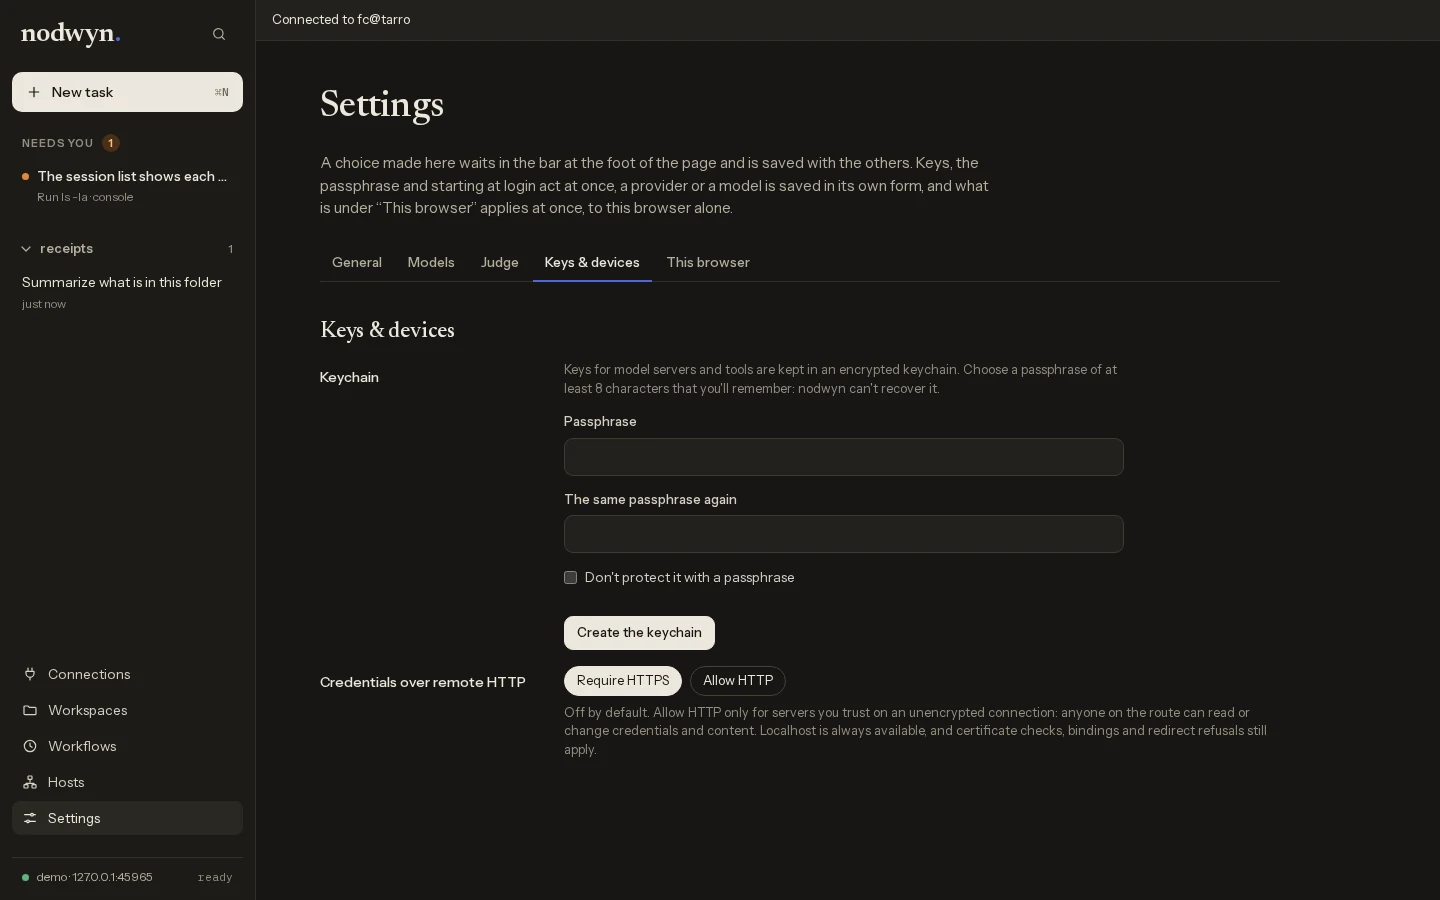
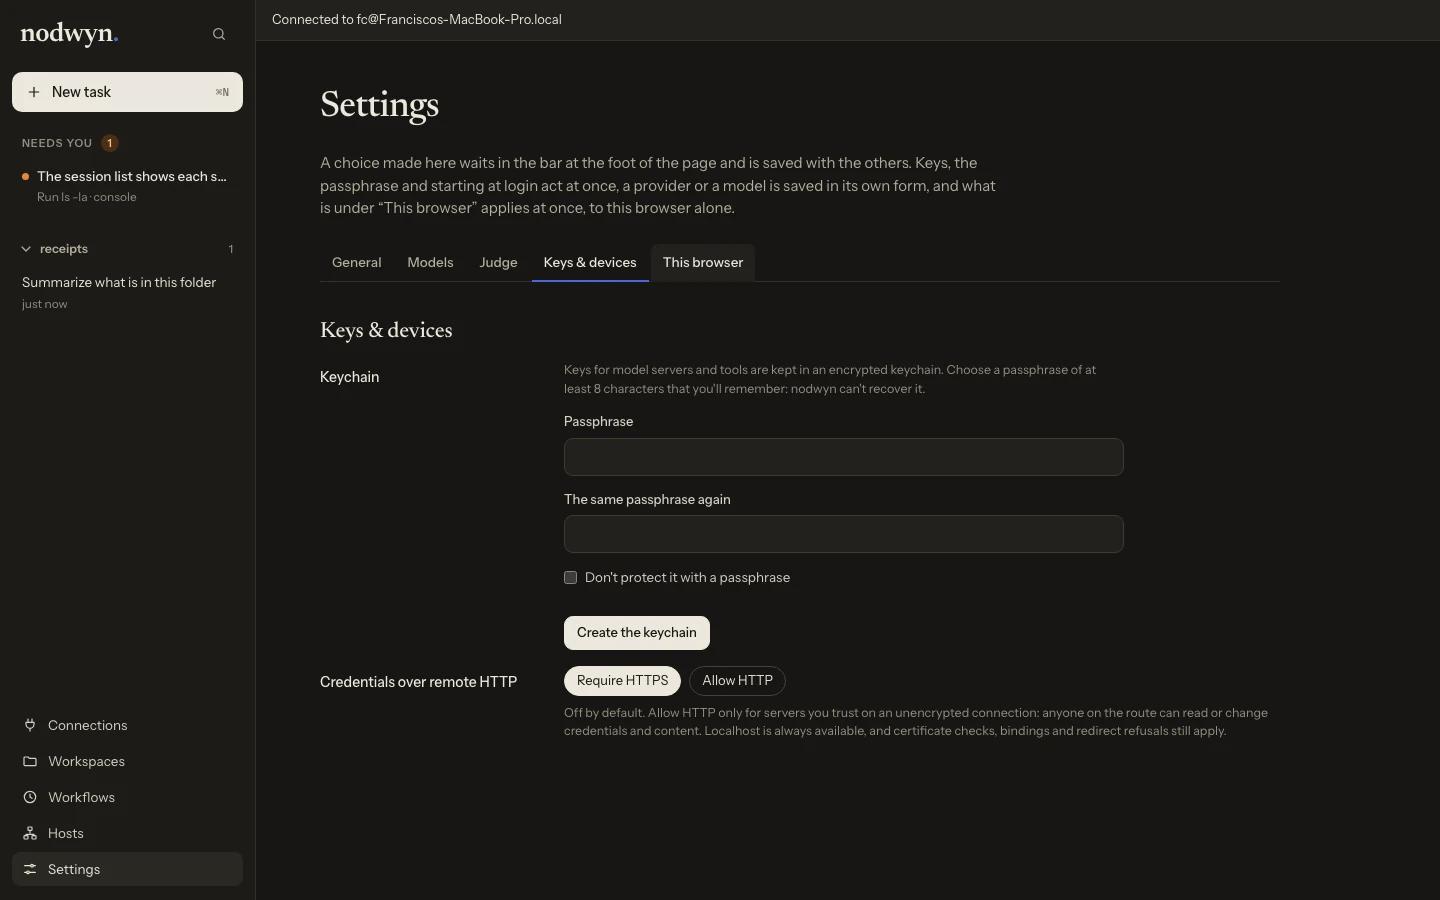
The console's sidebar no longer names the default model
The last line of the sidebar showed this computer's default model and
whether it was ready. With several hosts linked it read as the model of
every task, though a task on another host runs that host's model, so it
confused more than it told. The offline banner already says when the
daemon is gone, which was the line's other use.

The screens check now fails if the sidebar says "ready" (it found it
before this change), the tasks check no longer expects the line in view,
the guide drops its sentence, and docs/images are retaken. make validate
passes with no warnings; the WebKit run was not made, as Playwright's
WebKit is not installed.

diff --git a/internal/frontend/web/assets/sidebar.js b/internal/frontend/web/assets/sidebar.js
@@ -5,7 +5,6 @@
 // folders are under its name and state.
 import { h, icon, ago, minutes } from "./dom.js";
 import { summary } from "./prompts.js";
-import { stateWords } from "./modelpicker.js";
 import { searchURL } from "./search.js";
 import { chosenFolder } from "./home.js";
 import { hostState } from "./hosts.js";
@@ -211,12 +210,12 @@ export function renderSidebar(nav, { desk, hosts, route, conn, rerender }) {
   // sidebar would take the focus for its own field.
   const was = searching && document.activeElement?.matches?.("#sidebar input[type=search]") ? document.activeElement : null;
   const typing = was && { start: was.selectionStart, end: was.selectionEnd };
-  const control = desk.control();
-  const modelState = !conn.live ? ["bad", "offline"] : !control ? ["", "checking"] : control.state === "ready" ? ["ok", desk.running().length ? "working" : "ready"] : [control.state === "unreachable" ? "bad" : "warn", stateWords[control.state] || control.state];
   const link = (href, name, label) => h("a", { class: "nav-link", href, "aria-current": route.name === href.slice(2) ? "page" : null }, icon(name), h("span", {}, label));
 
-  // Only the task list scrolls: the places and the model's state stay where
-  // they are, and the list keeps its place through each redraw.
+  // Only the task list scrolls: the places stay where they are, and the
+  // list keeps its place through each redraw. The sidebar names no model:
+  // with several hosts the default model of this one says nothing about a
+  // task on another, and the offline banner says when the daemon is gone.
   const kept = nav.querySelector(".nav-tasks")?.scrollTop || 0;
   const tasks = h(
     "div",
@@ -240,13 +239,6 @@ export function renderSidebar(nav, { desk, hosts, route, conn, rerender }) {
     h("a", { class: "new-task", href: "#/", onclick: () => setTimeout(() => document.getElementById("task")?.focus(), 0) }, icon("plus"), h("span", {}, "New task"), h("kbd", {}, "⌘N")),
     tasks,
     h("div", { class: "nav-links" }, link("#/connections", "plug", "Connections"), link("#/workspaces", "folder", "Workspaces"), link("#/workflows", "clock", "Workflows"), conn.has("host.list") ? link("#/hosts", "hosts", "Hosts") : null, link("#/settings", "sliders", "Settings")),
-    h(
-      "div",
-      { class: "model-line", title: control?.detail || "" },
-      h("span", { class: `dot ${modelState[0]}` }),
-      h("span", {}, control?.model ? `${control.model}${control.host ? ` · ${control.host}` : ""}` : conn.live ? "Model" : "Disconnected"),
-      h("span", { class: "state" }, modelState[1]),
-    ),
     ].filter(Boolean),
   );
   tasks.scrollTop = kept;

diff --git a/test/browser/checks/tasks.js b/test/browser/checks/tasks.js
@@ -301,18 +301,20 @@ check(async () => {
   assert.deepStrictEqual(limitsSent().at(-1), { id: limited, limits: {} }, "removing the last limit sent none");
   step("a task's limits added, changed and removed on its panel, none from Home");
 
-  // Only the task list scrolls: Settings and the model's state stay in view
-  // beside a list longer than the window, and a redraw keeps the list's place.
+  // Only the task list scrolls: Settings stays in view beside a list longer
+  // than the window, and a redraw keeps the list's place. The sidebar names
+  // no model, which said nothing about a task on another host.
   await page.setViewportSize({ width: 1440, height: 520 });
   const frame = () =>
     page.evaluate(() => {
       const list = document.querySelector(".nav-tasks"), side = document.querySelector("#sidebar");
       const bottom = (sel) => document.querySelector(sel).getBoundingClientRect().bottom;
-      return { scrolls: list.scrollHeight > list.clientHeight, sideOverflow: side.scrollHeight - side.clientHeight, links: bottom(".nav-links"), model: bottom(".model-line"), height: innerHeight, top: list.scrollTop };
+      return { scrolls: list.scrollHeight > list.clientHeight, sideOverflow: side.scrollHeight - side.clientHeight, links: bottom(".nav-links"), model: !!document.querySelector(".model-line"), height: innerHeight, top: list.scrollTop };
     });
   const long = await frame();
   assert.ok(long.scrolls, `the task list does not scroll: ${JSON.stringify(long)}`);
-  assert.ok(long.sideOverflow <= 0 && long.links <= long.height && long.model <= long.height, `the places or the model's state scrolled away: ${JSON.stringify(long)}`);
+  assert.ok(long.sideOverflow <= 0 && long.links <= long.height, `the places scrolled away: ${JSON.stringify(long)}`);
+  assert.ok(!long.model, "the sidebar still names a model");
   await page.evaluate(() => (document.querySelector(".nav-tasks").scrollTop = 60));
   await page.evaluate(() => dispatchEvent(new HashChangeEvent("hashchange")));
   assert.strictEqual((await frame()).top, 60, "a redraw moved the task list");

diff --git a/test/browser/checks/screens.js b/test/browser/checks/screens.js
@@ -39,10 +39,12 @@ check(async () => {
   const go = (page, hash) => page.evaluate((h) => (location.hash = h), hash);
 
   // Home: the task waiting for an answer and the finished one, under its
-  // folder, in the sidebar and on the page, with the model answering.
+  // folder, in the sidebar and on the page. The sidebar names no model: with
+  // several hosts this one's default said nothing about a task on another.
   const home = async (page) => {
     assert.ok(!(await page.innerText("#daemon-identity")).includes("Runs on"), "Home claims an execution target before a task opens");
-    await shows(page, "#sidebar", "NEEDS YOU", "Run ls -la · console", "receipts", "Summarize what is in this folder", "ready");
+    await shows(page, "#sidebar", "NEEDS YOU", "Run ls -la · console", "receipts", "Summarize what is in this folder");
+    assert.ok(!/\bready\b/.test(await page.innerText("#sidebar")), "the sidebar still names the model and its state");
     await shows(page, "#view", "What should we get done?", "Run ls -la", "Allow once", "RECENTLY FINISHED", "Summarize what is in this folder");
     const picker = await page.$eval("#new-task-model .mp-controls", (el) => {
       const box = el.getBoundingClientRect();

diff --git a/internal/frontend/web/assets/style.css b/internal/frontend/web/assets/style.css
@@ -289,12 +289,6 @@ textarea.input { height: auto; padding: 10px 12px; line-height: 1.5; resize: ver
   text-decoration: none; color: var(--ink-2); font-size: 13.5px;
 }
 .nav-link:hover, .nav-link[aria-current="page"] { background: var(--selected); color: var(--ink); }
-.model-line {
-  display: flex; align-items: center; gap: 8px; padding: 10px 10px 0; border-top: 1px solid var(--line);
-  font-size: 12px; color: var(--muted); min-width: 0;
-}
-.model-line span:nth-child(2) { overflow: hidden; text-overflow: ellipsis; white-space: nowrap; }
-.model-line .state { margin-left: auto; font-family: var(--mono); font-size: 11px; color: var(--faint); }
 .content { flex-grow: 1; min-width: 0; display: flex; flex-direction: column; min-height: 0; overflow: hidden; }
 .view { flex-grow: 1; min-height: 0; display: flex; flex-direction: column; }
 .topbar { display: none; }

diff --git a/site/content/console.md b/site/content/console.md
@@ -4,7 +4,7 @@ The console is a web app that a daemon serves. `nodwyn app` shows it in a window
 
 ## The sidebar
 
-The sidebar is the same on every page. **New task** is at the top (⌘N on a Mac), and the magnifier next to it searches what your earlier tasks did. Under that, **Needs you** lists the tasks that have stopped to ask something, and below it your folders, each with its tasks. At the bottom are the pages: Connections, Workspaces, Workflows, Hosts and Settings. The last line says which daemon you're talking to and whether it's ready.
+The sidebar is the same on every page. **New task** is at the top (⌘N on a Mac), and the magnifier next to it searches what your earlier tasks did. Under that, **Needs you** lists the tasks that have stopped to ask something, and below it your folders, each with its tasks. At the bottom are the pages: Connections, Workspaces, Workflows, Hosts and Settings.
 
 On a phone the sidebar is a drawer, and a pill in the top bar says how many tasks need you. Tap it and you land on the one that's waiting.
 
